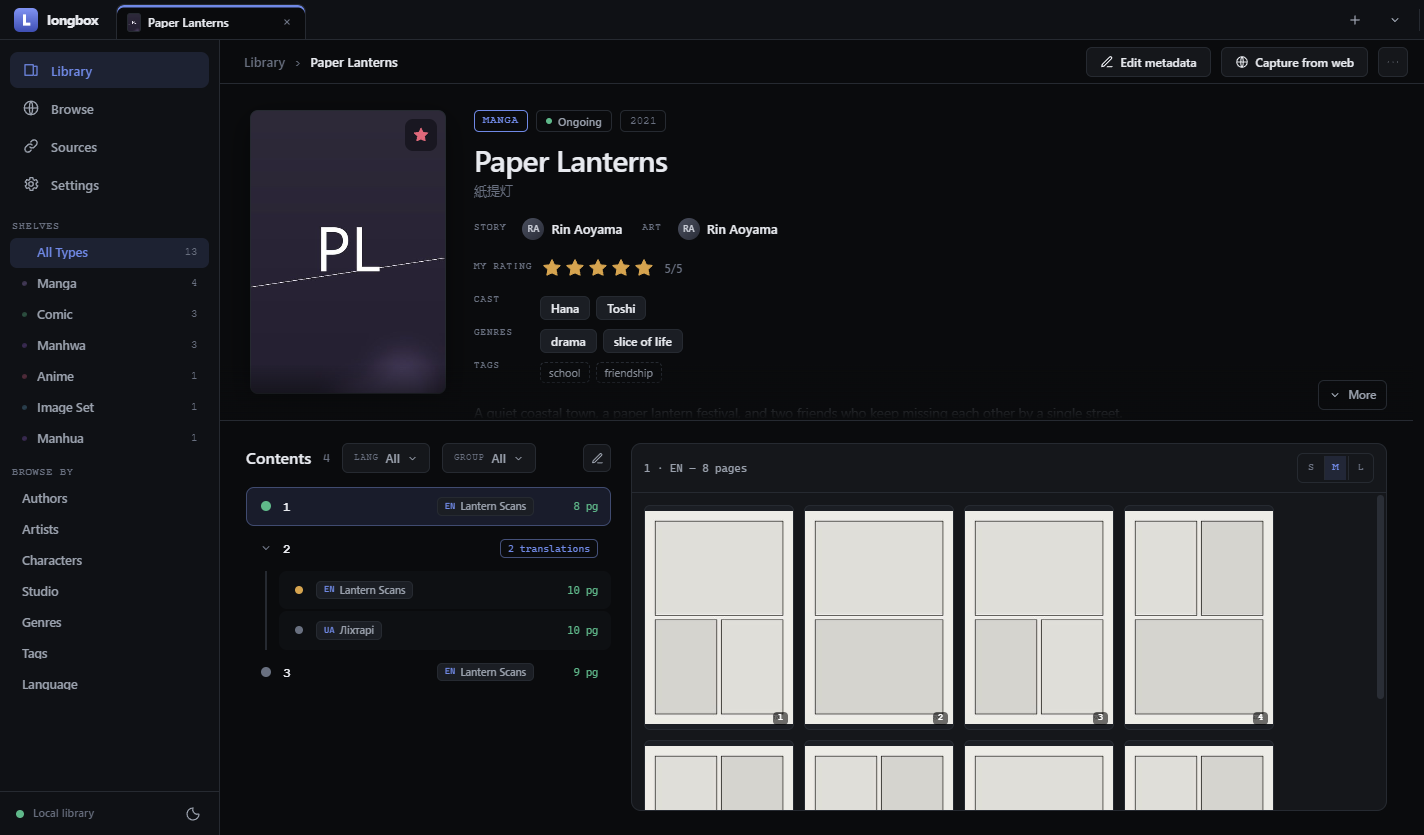
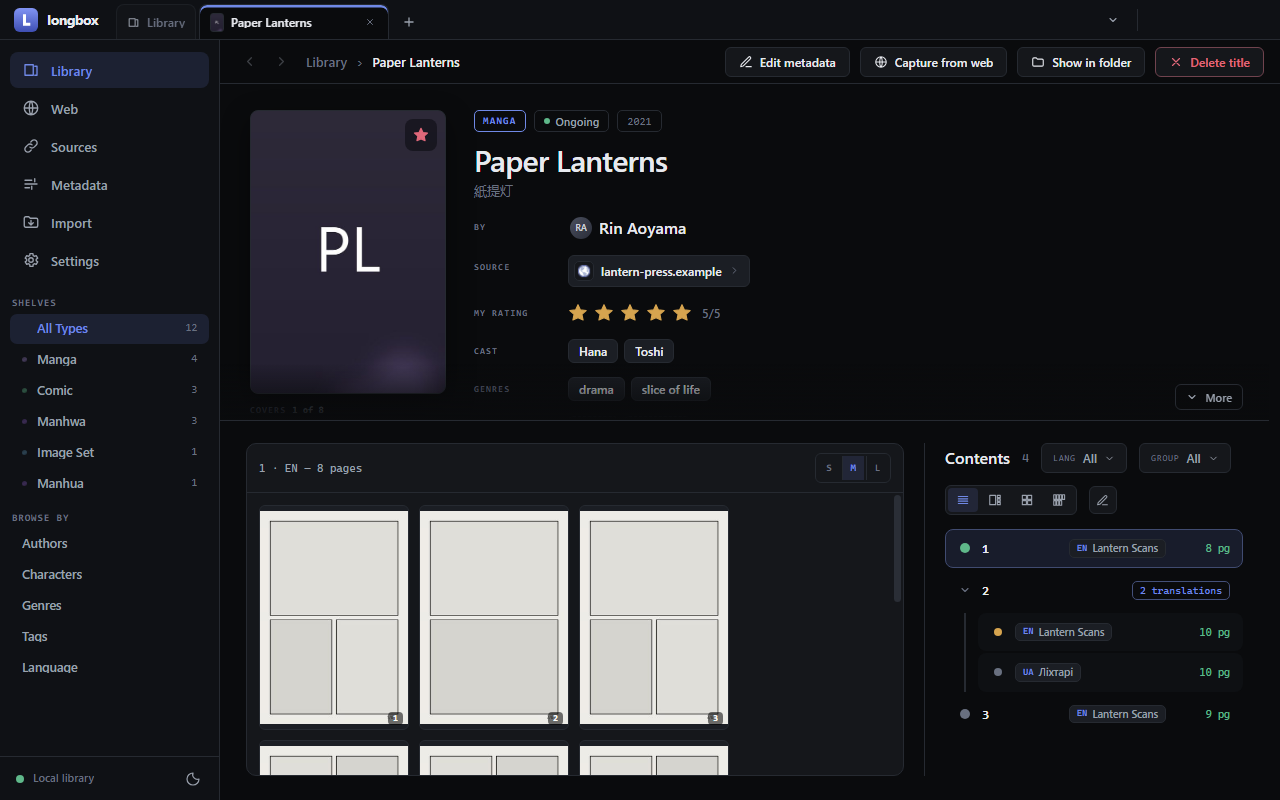
docs(page): screenshots of the app as it is, from a demo that names no one
tools/screenshots.py had stopped working: a vault is no longer made by
opening a path, the browser lives under Web and needs a tab, and Browse by
moved into the rail. It runs again, adds the Sources page (with invented
.example sites), and no longer leaks the capturing computer's user name —
the demo site is served over http instead of from a temp-folder file URL,
and Settings is shot on Fields instead of on the vault's path.

diff --git a/tools/screenshots.py b/tools/screenshots.py
@@ -12,6 +12,8 @@ itself: the sidecar serves the demo vault and Electron captures the real UI.
 """
 from __future__ import annotations
 
+import functools
+import http.server
 import io
 import json
 import os
@@ -22,6 +24,7 @@ import socket
 import subprocess
 import sys
 import tempfile
+import threading
 import time
 import urllib.request
 import zipfile
@@ -171,6 +174,7 @@ def build_vault(root: Path, tmp: Path) -> None:
     from app.library.service import Library
 
     random.seed(7)
+    root.mkdir(parents=True, exist_ok=True)  # made as the launch window makes a vault: opening never does
     lib = Library(root)
     for i, spec in enumerate(TITLES):
         spec = dict(spec)
@@ -191,7 +195,26 @@ def build_vault(root: Path, tmp: Path) -> None:
     t = lib.get("paper-lanterns")
     lib.patch_user("paper-lanterns", UserPatch(
         read={t.chapters[0].id: "read", t.chapters[1].id: "reading"}))
+    # The Sources page: invented sites under the reserved .example domain, so no
+    # shot ever names a real one — each title came from one of them.
+    from app.library.models import SourceRef
+    for k, (tid, _doc) in enumerate(lib.index.docs(sort="title")):
+        domain = SITES[k % len(SITES)][0]
+        lib.amend(tid, lambda d, domain=domain: setattr(
+            d.meta, "source", SourceRef(domain=domain, url=f"https://{domain}/title/{tid}")) or True)
+    lib.source_prefs.set_groups(["Reading", "Archives"])
+    for domain, group, links in SITES:
+        lib.source_prefs.put(domain, group=group, bookmarks=[
+            {"name": name, "url": f"https://{domain}/{path}"} for name, path in links])
     lib.close()
+
+
+SITES = [
+    ("kestrel-reader.example", "Reading", [("Latest updates", "latest"), ("Following", "follows")]),
+    ("inkwell.example", "Reading", [("New this week", "new")]),
+    ("lantern-press.example", "Archives", [("Collections", "collections")]),
+    ("moonprint.example", "", []),
+]
 
 
 # A stand-in "source site" for the capture screenshot: entirely fictional, served
@@ -259,6 +282,9 @@ const ORIGIN = process.env.LB_SHOT_ORIGIN, OUT = process.env.LB_SHOT_OUT
 const LOG = process.env.LB_SHOT_LOG
 const logln = (s) => fs.appendFileSync(LOG, s + String.fromCharCode(10))
 const DEMO_PAGE = process.env.LB_SHOT_DEMO_URL || ''
+// the shell's app preload: without it the window is a plain web page, and the
+// browser view says it only runs in the desktop app
+const PRELOAD = process.env.LB_SHOT_PRELOAD
 const wait = (ms) => new Promise((r) => setTimeout(r, ms))
 // Nothing here may hang: a window Chromium decided not to paint makes
 // capturePage() wait forever, and a busy renderer does the same to
@@ -302,7 +328,7 @@ async function main() {
   fs.mkdirSync(OUT, { recursive: true })
   const win = new BrowserWindow({ width: 1280, height: 800, show: false, backgroundColor: '#0a0b0d',
     webPreferences: { offscreen: true, contextIsolation: true, nodeIntegration: false,
-                      sandbox: true, webviewTag: true } })
+                      sandbox: true, webviewTag: true, preload: PRELOAD } })
   win.webContents.setFrameRate(30)
   await withTimeout(win.loadURL(ORIGIN + '/app/'), 20000, 'loading the app')
   await shot(win, '01-library', `document.querySelector('.lib .grid')`)
@@ -329,22 +355,35 @@ async function main() {
 
   // the capture browser: a local demo page in the webview, a fresh draft in the dock
   if (DEMO_PAGE) {
-    await run(win, `[...document.querySelectorAll('.navitem')].find((x) => /Browse/.test(x.textContent))?.click()`)
-    await until(win, `document.querySelector('.bw webview')`, 'the browser view')
+    await run(win, `[...document.querySelectorAll('.navitem')].find((x) => /Web/.test(x.textContent))?.click()`)
+    await until(win, `document.querySelector('.bw webview, .bw .notice .btn')`, 'the browser view')
+    await run(win, `[...document.querySelectorAll('.bw .notice .btn')].find((b) => /New tab/.test(b.textContent))?.click()`)
+    await until(win, `document.querySelector('.bw webview')`, 'a browser tab')
     await run(win, `document.querySelector('.bw webview').src = ${JSON.stringify(DEMO_PAGE)}`)
     await wait(2500)
     await run(win, `[...document.querySelectorAll('.cp button, .cp .newrow, .cp .btn')].find((b) => /New (manga|title)/i.test(b.textContent))?.click()`)
     await shot(win, '10-capture', `document.querySelector('.cp .fieldrow, .cp .body')`)
   }
 
-  await run(win, `[...document.querySelectorAll('.navitem')].find((x) => /Authors/.test(x.textContent))?.click()`)
+  await run(win, `[...document.querySelectorAll('.navitem')].find((x) => /Sources/.test(x.textContent))?.click()`)
+  await shot(win, '11-sources', `document.querySelector('.srow')`)
+
+  // the library tab went on to the title opened from it: the shelf brings it back
+  await run(win, `[...document.querySelectorAll('.navitem')].find((x) => /Library/.test(x.textContent))?.click()`)
+  await run(win, `[...document.querySelectorAll('button')].find((b) => /^All types/i.test(b.textContent.trim()))?.click()`)
+  await until(win, `document.querySelector('.lib .grid')`, 'back to the library')
+  await run(win, `[...document.querySelectorAll('button')].find((b) => /^Browse by authors/.test(b.title || ''))?.click()`)
   await shot(win, '07-authors', `document.querySelector('.au .list')`)
 
   await run(win, `[...document.querySelectorAll('.navitem')].find((x) => /Settings/.test(x.textContent))?.click()`)
-  await shot(win, '08-settings', `[...document.querySelectorAll('h1')].some((h) => h.textContent.trim() === 'Settings')`)
+  // Fields, not Storage: Storage prints the demo vault's path, and with it this computer's user name
+  await until(win, `document.querySelector('.viewcol .head .h1')`, 'the settings')
+  await run(win, `[...document.querySelectorAll('#siderail button')].find((b) => /^Fields/.test(b.textContent.trim()))?.click()`)
+  await shot(win, '08-settings', `/Fields/.test(document.querySelector('.viewcol .head .h1')?.textContent || '')`)
 
-  await run(win, `document.querySelector('.themebtn')?.click()`)
+  await run(win, `document.querySelector('button[title="Toggle theme"]')?.click()`)
   await run(win, `[...document.querySelectorAll('.navitem')].find((x) => /Library/.test(x.textContent))?.click()`)
+  await run(win, `document.querySelector('button[title="Back to the library"]')?.click()`)
   // the readiness check reads the PAINTED colour, not the attribute driving it
   await shot(win, '09-library-light', `getComputedStyle(document.body).backgroundColor === 'rgb(240, 238, 234)' && document.querySelector('.lib .grid')`)
   app.quit()
@@ -359,6 +398,11 @@ def free_port() -> int:
     with socket.socket() as s:
         s.bind(("127.0.0.1", 0))
         return s.getsockname()[1]
+
+
+class _QuietFiles(http.server.SimpleHTTPRequestHandler):
+    def log_message(self, *_args) -> None:
+        pass
 
 
 def main() -> int:
@@ -400,8 +444,15 @@ def main() -> int:
 
         shooter = work / "shoot.js"
         shooter.write_text(SHOOTER, encoding="utf-8")
-        demo_page = work / "demo-site.html"
-        demo_page.write_text(DEMO_SITE, encoding="utf-8")
+        site = work / "site"
+        (site / "title").mkdir(parents=True)
+        (site / "title" / "paper-lanterns.html").write_text(DEMO_SITE, encoding="utf-8")
+        # served over http, not opened as a file: the shot's address bar would
+        # otherwise print this computer's temp path — its user name included
+        server = http.server.ThreadingHTTPServer(
+            ("127.0.0.1", 0), functools.partial(_QuietFiles, directory=str(site)))
+        threading.Thread(target=server.serve_forever, daemon=True).start()
+        demo_url = f"http://127.0.0.1:{server.server_address[1]}/title/paper-lanterns.html"
         OUT.mkdir(parents=True, exist_ok=True)
         log = work / "shoot.log"
         log.write_text("", encoding="utf-8")
@@ -415,7 +466,8 @@ def main() -> int:
         print("capturing (offscreen - no window will appear):")
         subprocess.run([str(ELECTRON), str(shooter)], check=True,
                        env={**os.environ, "LB_SHOT_ORIGIN": origin, "LB_SHOT_OUT": str(OUT),
-                            "LB_SHOT_DEMO_URL": demo_page.as_uri(),
+                            "LB_SHOT_DEMO_URL": demo_url,
+                            "LB_SHOT_PRELOAD": str(ROOT / "shell" / "app-preload.js"),
                             "LB_SHOT_LOG": str(log)})
     finally:
         if log.exists():
